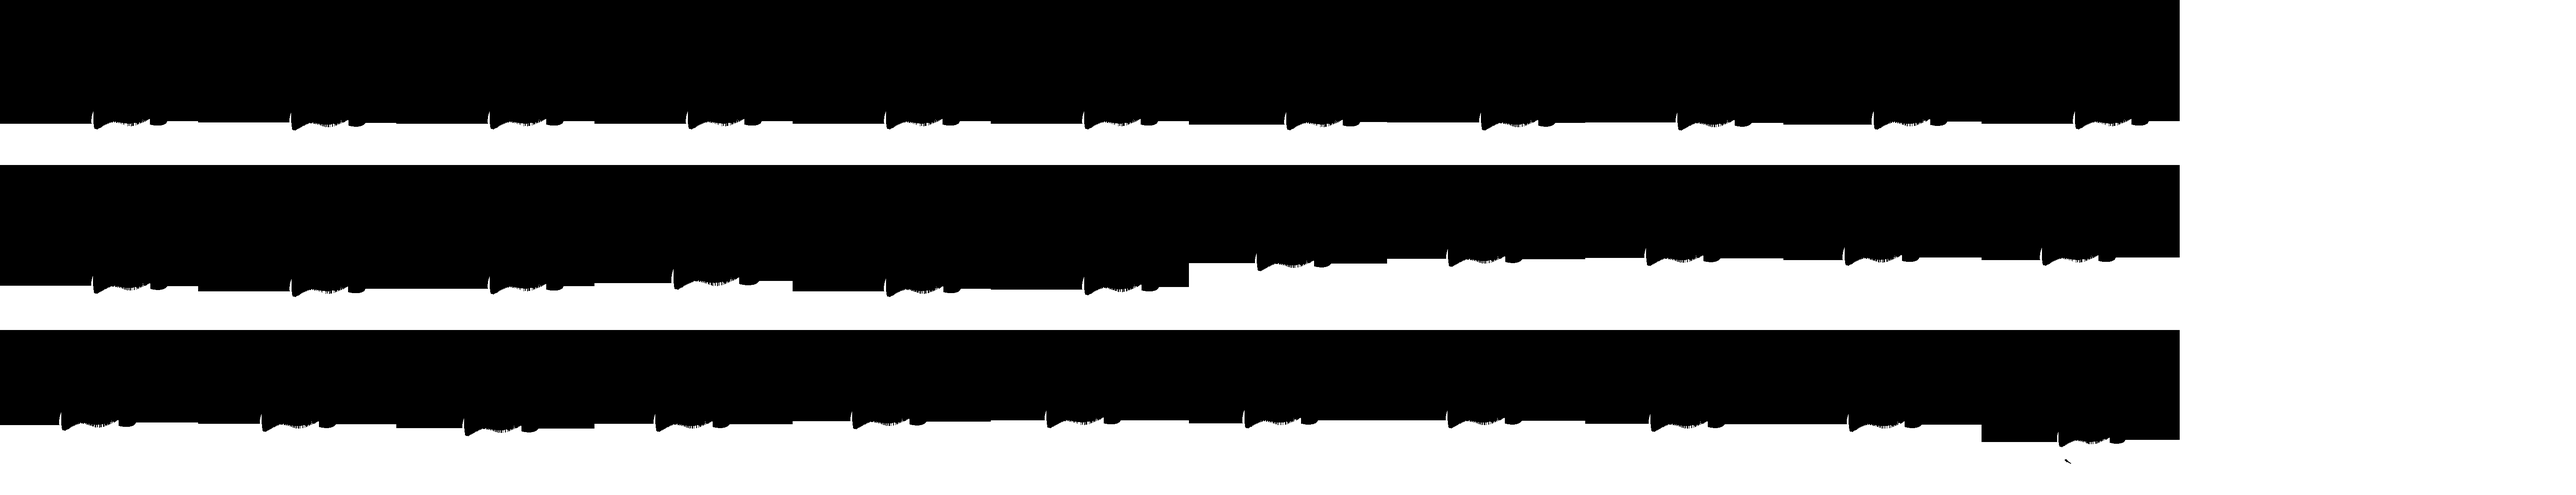
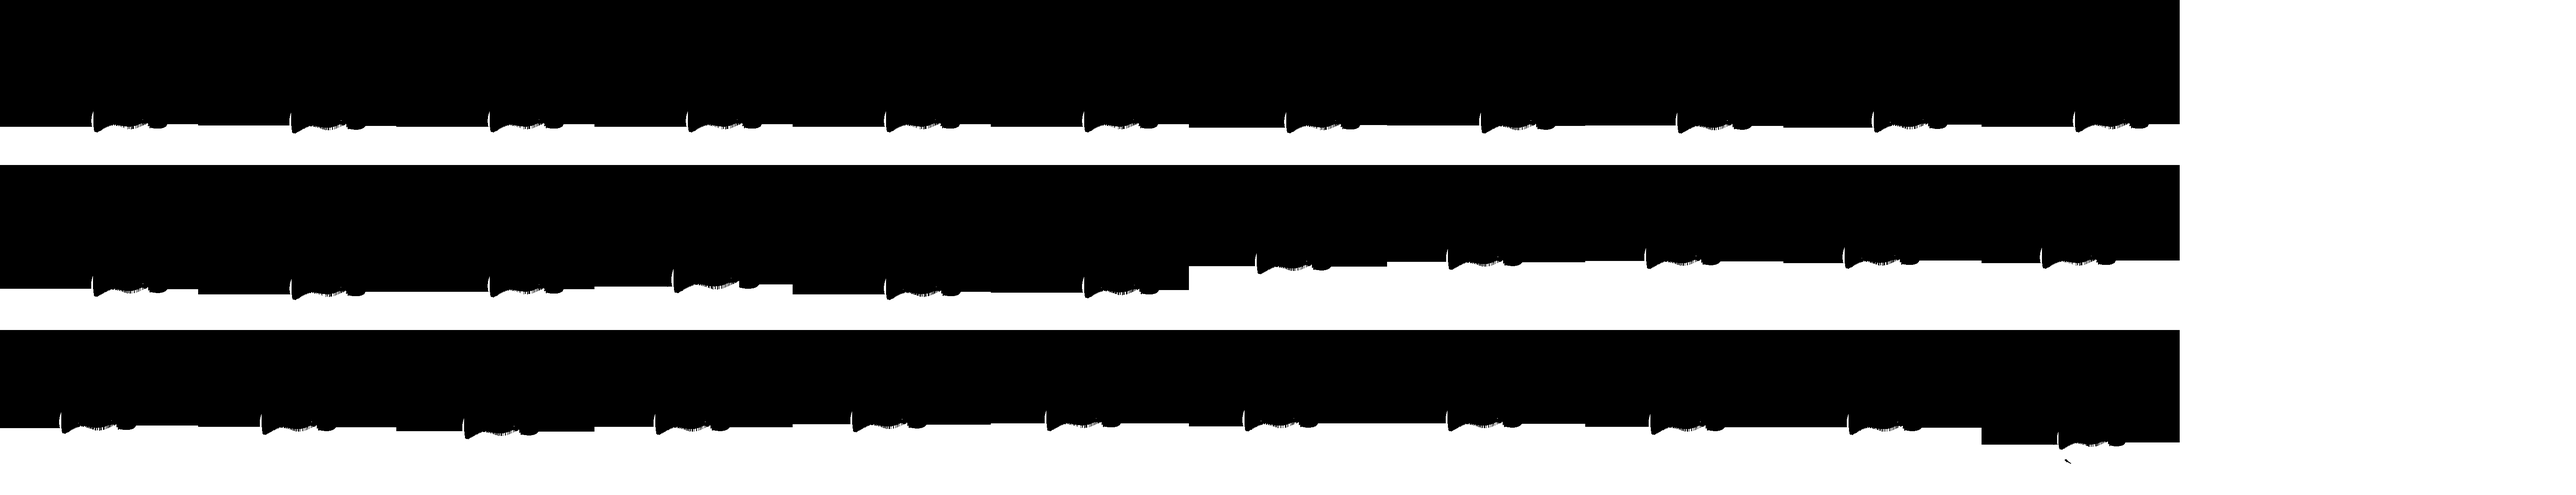
Boné Inicial: testa limpa sob a aba
Toda a pele que veio na pintura do boné sai (testa, abertura, nuca) e as
pontas da franja logo abaixo da aba somem de frente e de lado.

diff --git a/scripts/kit-v5/capclip.py b/scripts/kit-v5/capclip.py
@@ -13,19 +13,19 @@ import numpy as np
 from PIL import Image
 
 CELLS = {'game': (456, 380), 'show': (1000, 1368), 'virtualhead': (480, 700)}
-LIP = 0  # o cabelo aparece só um pouco abaixo da borda (fração da altura do boné): a borda tem contorno
+LIP = .10  # de frente e de lado; de costas 0 (a nuca aparece logo abaixo da borda): de frente, as pontas da franja logo abaixo da aba somem.
 
 
 HUG = .03  # fora do boné o cabelo fica colado no crânio: no máximo isso (fração da largura da cabeça) para fora
 
 
-def clip_cell(cap, head):
+def clip_cell(cap, head, lip_share=LIP):
     out = np.zeros_like(cap)
     cols = np.nonzero(cap.any(0))[0]
     if not len(cols):
         return out
     rows = np.nonzero(cap.any(1))[0]
-    lip = max(1, int((rows.max() - rows.min()) * LIP))
+    lip = max(1, int((rows.max() - rows.min()) * lip_share))
     ys = np.arange(cap.shape[0])[:, None]
     under = np.zeros_like(cap)
     for x in cols:
@@ -50,26 +50,20 @@ if __name__ == '__main__':
     sex, hat = sys.argv[1:3]
     for context, (w, h) in CELLS.items():
         path = f'public/assets/rig/{sex}/{context}/{hat}.png'
-        # a pintura do boné trouxe pele da cabeça de baixo (abertura de trás, faixa sob a borda): sai do boné
-        img = np.asarray(Image.open(path).convert('RGBA')).copy()
+        from scipy import ndimage
+        # sempre a partir da folha montada (build-rig.py): a pele que veio com o boné só sai onde o cabelo tem de aparecer
+        img = np.asarray(Image.open(f'output/kit-v5-mcp/rig/{context}/{hat}.png').convert('RGBA')).copy()
         r, g, b = (img[..., i].astype(int) for i in range(3))
         skin = (r > 200) & (g > 140) & (g < 225) & (b > 100) & (b < 200) & (r - b > 40)
-        img[skin, 3] = 0
-        # borda clara que sobra em volta do recorte (serrilhado da pele): sai, e o resto da borda suaviza
-        from scipy import ndimage
-        solid = img[..., 3] > 40
-        rim = solid & ~ndimage.binary_erosion(solid, iterations=2)
-        light = (r + g + b > 560) & ~((r > 200) & (g > 200) & (b > 200) & (abs(r - b) < 25))  # o painel branco fica
-        img[rim & (light | skin), 3] = 0
-        Image.fromarray(img).save(path)
-        a = img[..., 3] > 40
+        a = (img[..., 3] > 40) & ~skin  # o boné de verdade, para medir bordas e aberturas
         face = np.asarray(Image.open(f'public/assets/rig/{sex}/{context}/face-basic-{"male" if sex == "m" else "female"}.png').convert('RGBA'))[..., 3] > 128
         hair = np.asarray(Image.open(f'public/assets/rig/{sex}/{context}/hair-basic-{"male" if sex == "m" else "female"}-A.png').convert('RGBA'))[..., 3] > 40
         out = np.zeros(a.shape, bool)
         for y0 in range(0, a.shape[0], h):
             for x0 in range(0, a.shape[1], w):
                 fy, fx = min(y0, face.shape[0] - h), min(x0, face.shape[1] - w)  # mochila: rosto tem 4 células, o boné 1
-                cut = clip_cell(a[y0:y0 + h, x0:x0 + w], face[fy:fy + h, fx:fx + w])
+                back = context == 'virtualhead' and x0 == 2 * w
+                cut = clip_cell(a[y0:y0 + h, x0:x0 + w], face[fy:fy + h, fx:fx + w], 0 if back else LIP)
                 # sobras de cabelo cortado (fiapos da franja sob a aba): pedaços pequenos também somem
                 left = hair[y0:y0 + h, x0:x0 + w] & ~cut
                 lab, n = ndimage.label(left)
@@ -77,6 +71,14 @@ if __name__ == '__main__':
                     sz = ndimage.sum(np.ones_like(lab), lab, range(1, n + 1))
                     cut |= np.isin(lab, 1 + np.nonzero(sz < max(60, sz.max() * .08))[0])
                 out[y0:y0 + h, x0:x0 + w] = cut
+        # pele do boné: sai só onde o cabelo continua à mostra (abertura de trás, nuca); sob a aba fica (sombra na testa)
+        # pele que veio com o boné sai toda (testa, abertura, nuca), e o serrilhado claro da borda junto
+        img[skin, 3] = 0
+        solid = img[..., 3] > 40
+        rim = solid & ~ndimage.binary_erosion(solid, iterations=2)
+        light = (r + g + b > 560) & ~((r > 200) & (g > 200) & (b > 200) & (abs(r - b) < 25))
+        img[rim & light, 3] = 0
+        Image.fromarray(img).save(path)
         img = np.zeros(a.shape + (4,), np.uint8); img[out] = (0, 0, 0, 255)
         Image.fromarray(img).save(f'public/assets/rig/{sex}/{context}/{hat}-clip.png')
         print(context, out.mean().round(3))
